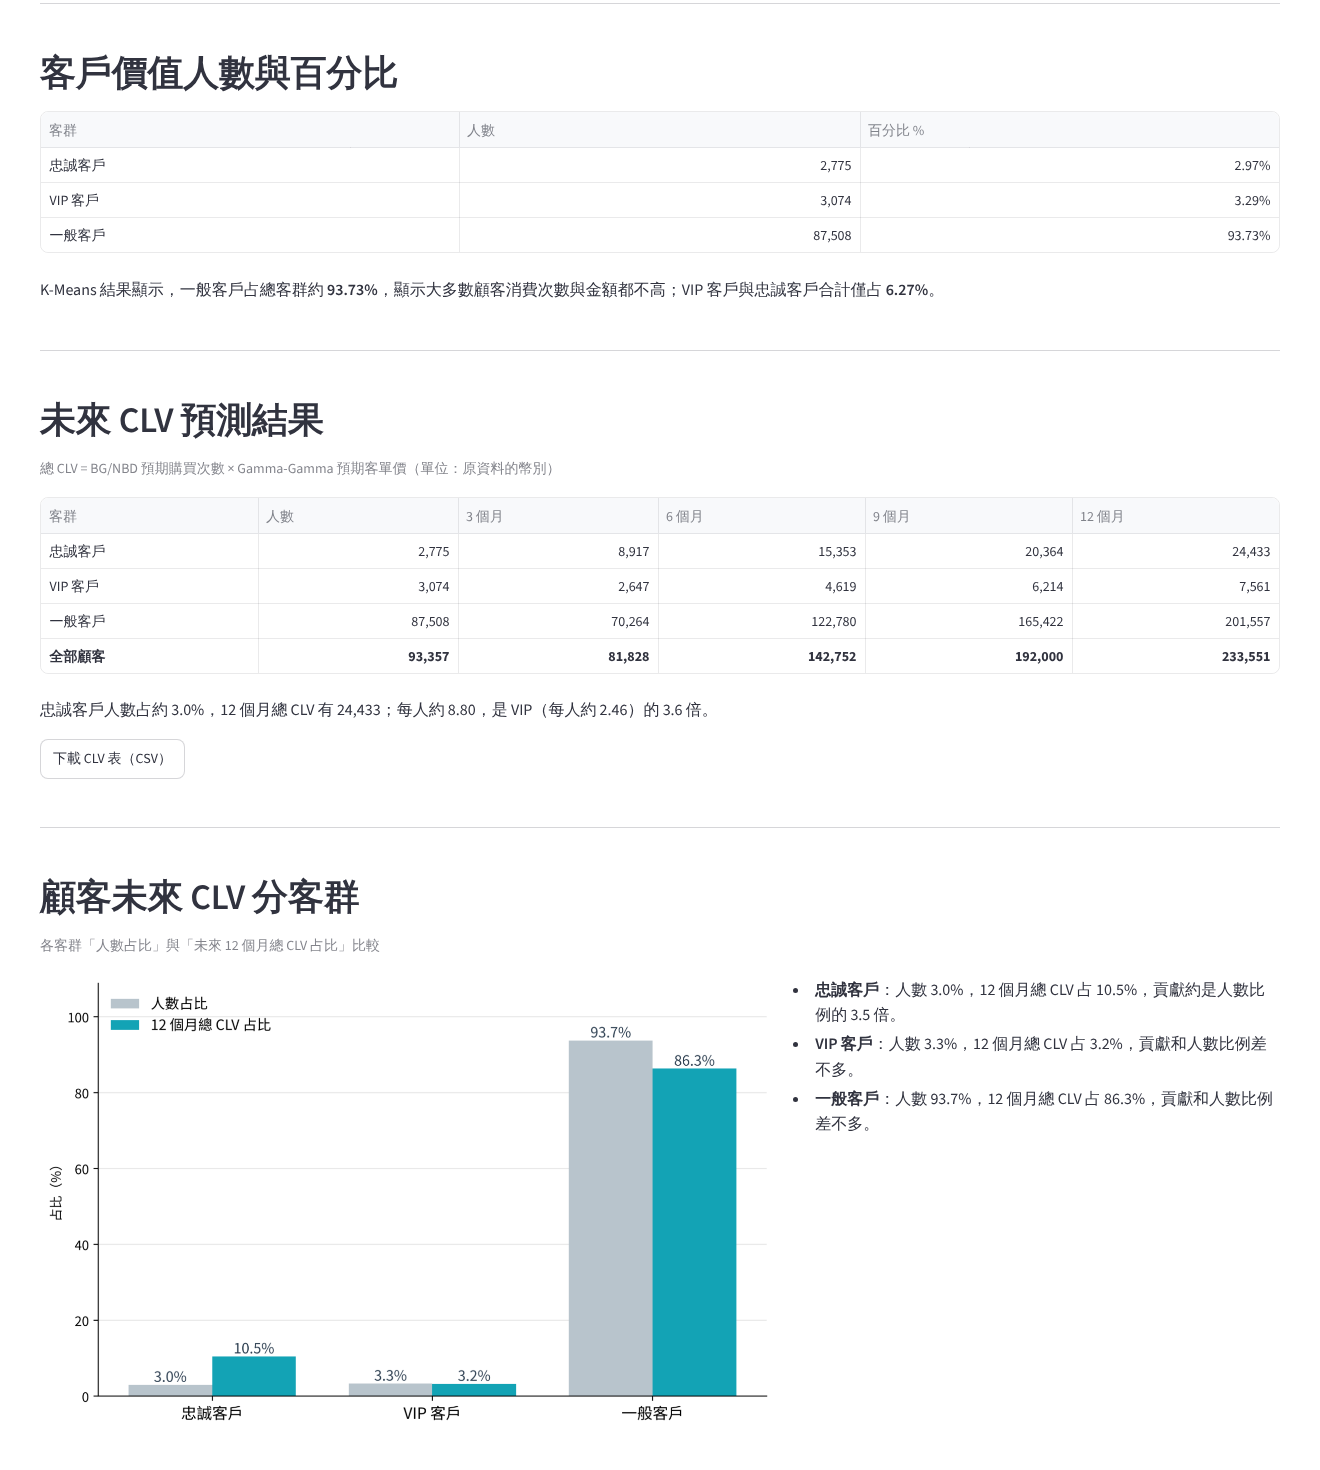
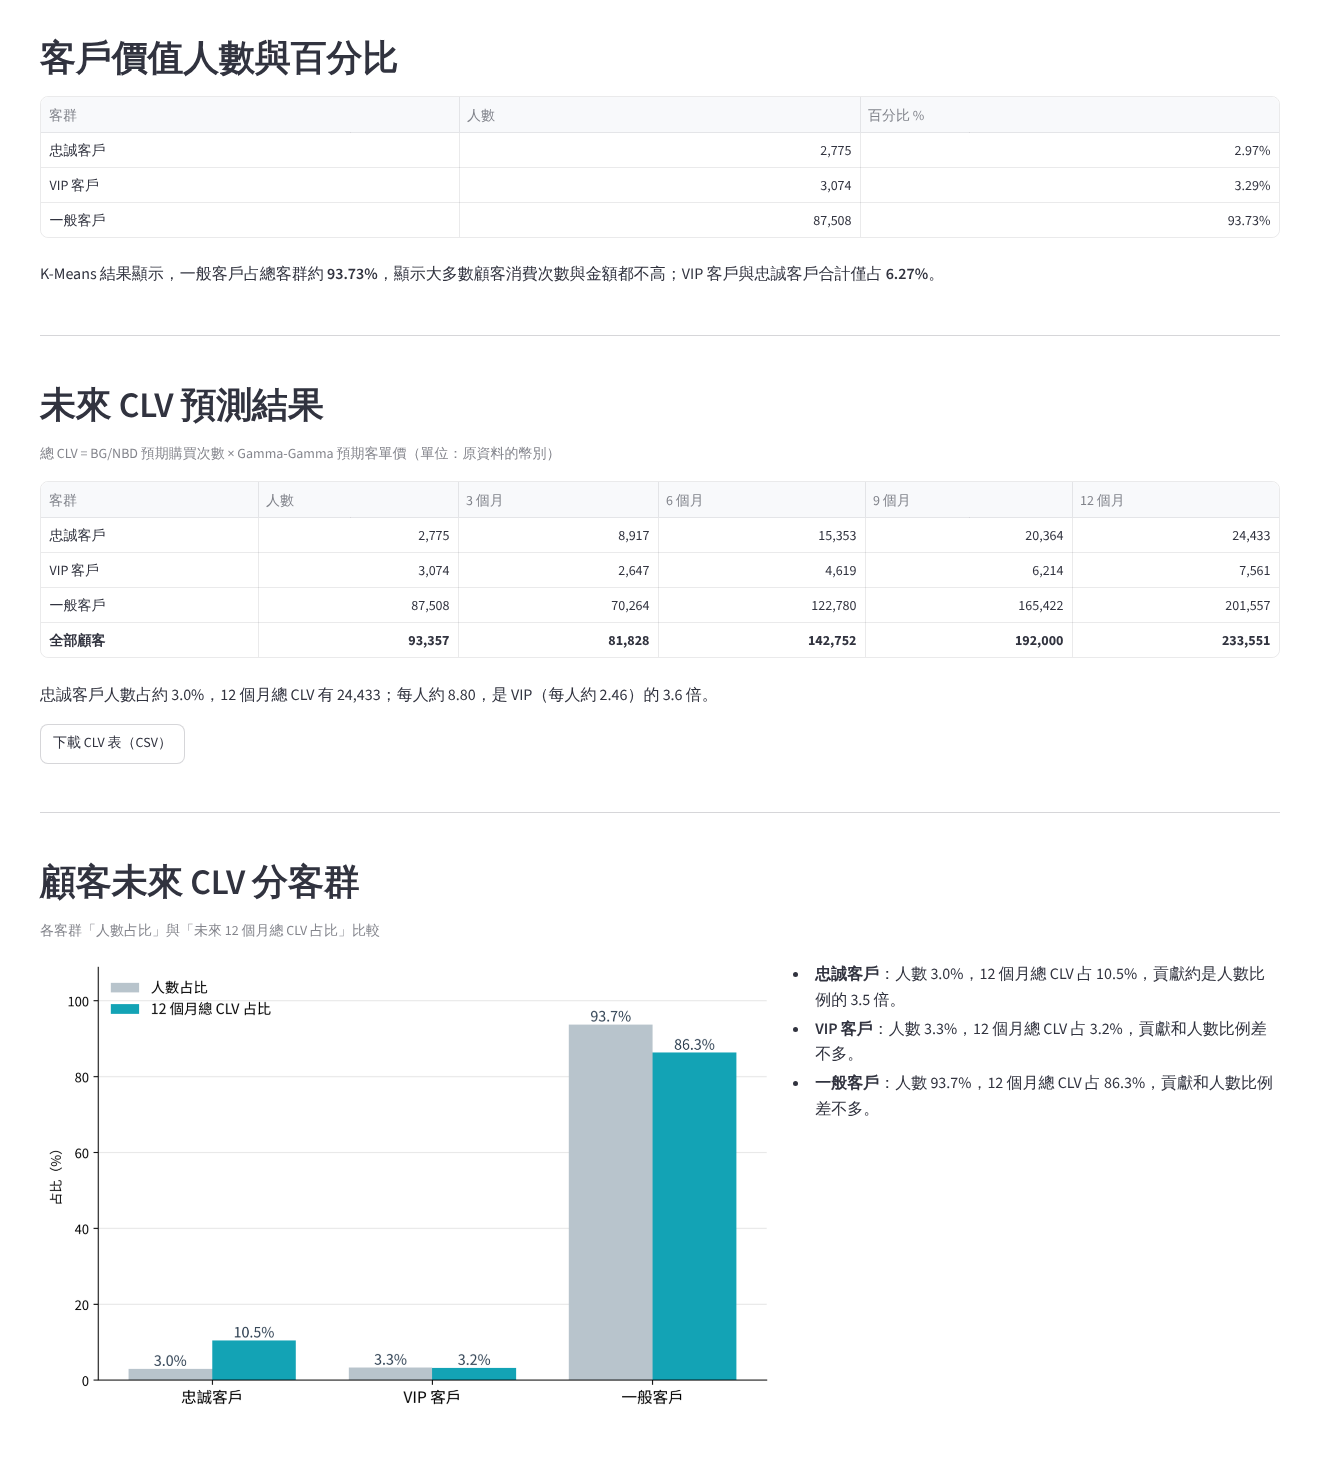
分群改用 F、M 散佈圖呈現，PCA 改成三群分開；更新系統截圖
Claude-Session: https://claude.ai/code/session_01CGySaF61w1nVm1sgq7tDqG

diff --git a/method_cluster.html b/method_cluster.html
@@ -138,24 +138,22 @@ footer{background:var(--navy);color:#c9d3db;text-align:center;font-size:.9rem;li
   </div>
 </div>
 <div class="card">
+  <h2>分群結果</h2>
+  <figure><img src="img/clusters.png" alt="K-Means 分群結果：橫軸購買次數、縱軸總消費金額，三群完全分開"><figcaption>每個點是一位顧客，畫在分群實際使用的購買次數（F）與總消費金額（M）上。</figcaption></figure>
+  <p style="margin-top:14px">分群只用 F 與 M，所以畫在這兩個指標上，三群可以完全分開：</p>
+  <div class="tbl-wrap"><table><thead><tr><th>客群</th><th>人數</th><th>實際範圍</th></tr></thead>
+    <tbody>
+      <tr><th><span class="dot" style="background:#2f5fd0"></span>忠誠客戶</th><td class="num">2,775</td><td style="text-align:left;white-space:normal">購買 2～15 次</td></tr>
+      <tr><th><span class="dot" style="background:#d6453d"></span>VIP 客戶</th><td class="num">3,074</td><td style="text-align:left;white-space:normal">多數只買 1 次，總消費 588～13,664 巴西幣（另有 26 人買過 2 次但金額很高）</td></tr>
+      <tr><th><span class="dot" style="background:#9aa3ad"></span>一般客戶</th><td class="num">87,508</td><td style="text-align:left;white-space:normal">只買 1 次，總消費 588 巴西幣以下</td></tr>
+    </tbody></table></div>
+  <p>一般客戶與 VIP 客戶的分界約為 <span class="hl">588 巴西幣</span>（圖中虛線）。這條線是 K-Means 依資料自己找出來的，不是事先設定。</p>
+</div>
+<div class="card">
   <h2>PCA（主成分分析）特徵對比</h2>
-  <div class="grid-2">
-    <figure><img src="img/pca.png" alt="PCA 散佈圖：三個客群沿 PC1 排開"><figcaption>PC1 主要反映 F、M；PC2 主要反映 R。</figcaption></figure>
-    <div>
-      <p>圖中每個點代表一位顧客，不同顏色代表不同客群。透過 PCA 將 RFM 三個特徵降到二維後，可以觀察各客群的分布情形。結果顯示，大部分顧客集中於左側區域，表示其消費行為較為相似；而少數顧客分布於右側與上方區域，顯示其消費特徵與一般顧客存在較大差異。</p>
-      <p>三群沿著 PC1（主要反映 F、M）由左到右排開，與分群只使用 F、M 的設計一致；同一群在 PC2（R）方向上分布很廣，代表同一群裡同時有最近才買與很久沒買的顧客。</p>
-    </div>
-  </div>
-  <div class="grid-2" style="margin-top:20px">
-    <figure><img src="img/pca_zoom.png" alt="PCA 散佈圖局部放大"><figcaption>左下密集區域放大（PC1：−2～12）。</figcaption></figure>
-    <div>
-      <ul class="chips" style="flex-direction:column;align-items:flex-start">
-        <li><span class="dot" style="background:#5b5bff"></span>藍色：忠誠客戶</li>
-        <li><span class="dot" style="background:#ff6b6b"></span>紅色：VIP 客戶</li>
-        <li><span class="dot" style="background:#9e9e9e"></span>灰色：一般客戶</li>
-      </ul>
-    </div>
-  </div>
+  <figure><img src="img/pca_facets.png" alt="PCA 分布，三個客群各一張，淺灰為全部顧客"><figcaption>三個客群分開呈現，淺灰色為全部顧客。PC1 主要反映 F、M；PC2 主要反映 R。</figcaption></figure>
+  <p style="margin-top:14px">透過 PCA 將 RFM 三個特徵降到二維後，可以觀察各客群的分布情形。結果顯示，大部分顧客集中於左側區域，表示其消費行為較為相似；而少數顧客分布於右側與上方區域，顯示其消費特徵與一般顧客存在較大差異。</p>
+  <p>三群沿著 PC1（主要反映 F、M）由左到右排開，與分群只使用 F、M 的設計一致；同一群在 PC2（R）方向上分布很廣，代表同一群裡同時有最近才買與很久沒買的顧客。</p>
 </div>
 <div class="pager"><a href="method_rfm.html">← RFM 與 K-Means</a><a href="method_clv.html">CLV 預測模型 →</a></div>
 </main><footer>© 2026 靜宜大學資料科學暨大數據分析與應用學系<br>CLV 顧客終身價值專題組｜資料來源：Kaggle Olist Brazilian E-commerce Dataset</footer><button id="top" type="button" aria-label="回到頁首">TOP</button>

diff --git a/method_rfm.html b/method_rfm.html
@@ -142,9 +142,9 @@ footer{background:var(--navy);color:#c9d3db;text-align:center;font-size:.9rem;li
   <h3>客群命名規則</h3>
   <div class="tbl-wrap"><table><thead><tr><th>順序</th><th>客群</th><th>判定依據</th></tr></thead>
     <tbody>
-      <tr><td>1</td><th><span class="dot" style="background:#5b5bff"></span>忠誠客戶</th><td>Frequency 平均最高的一群</td></tr>
-      <tr><td>2</td><th><span class="dot" style="background:#ff6b6b"></span>VIP 客戶</th><td>其餘兩群中 Monetary 平均較高的一群</td></tr>
-      <tr><td>3</td><th><span class="dot" style="background:#9e9e9e"></span>一般客戶</th><td>剩下的一群（Frequency、Monetary 皆低）</td></tr>
+      <tr><td>1</td><th><span class="dot" style="background:#2f5fd0"></span>忠誠客戶</th><td>Frequency 平均最高的一群</td></tr>
+      <tr><td>2</td><th><span class="dot" style="background:#d6453d"></span>VIP 客戶</th><td>其餘兩群中 Monetary 平均較高的一群</td></tr>
+      <tr><td>3</td><th><span class="dot" style="background:#9aa3ad"></span>一般客戶</th><td>剩下的一群（Frequency、Monetary 皆低）</td></tr>
     </tbody></table></div>
 </div>
 <div class="pager"><a href="data_process.html">← 資料前處理</a><a href="method_cluster.html">肘部法則與 PCA →</a></div>

diff --git a/demo.html b/demo.html
@@ -144,7 +144,7 @@ footer{background:var(--navy);color:#c9d3db;text-align:center;font-size:.9rem;li
   <ol class="steps">
     <li><div><b>上傳資料並設定欄位</b><br>上傳 CSV 或 XLSX 檔，確認系統推薦的顧客 ID、訂單 ID、日期與金額欄位。</div></li>
     <li><div><b>資料品質檢查</b><br>系統依序檢查欄位缺失、訂單狀態、多筆付款與退貨，再確認資料量是否足夠。</div></li>
-    <li><div><b>分群結果</b><br>顯示肘部法則、PCA 與各客群人數。</div></li>
+    <li><div><b>分群結果</b><br>顯示肘部法則、分群散佈圖、PCA 與各客群人數。</div></li>
     <li><div><b>未來 CLV</b><br>顯示 3／6／9／12 個月的 CLV 表與各客群占比，可下載 CSV。</div></li>
   </ol>
 </div>

diff --git a/src/build_site.py b/src/build_site.py
@@ -367,9 +367,9 @@ PAGES["method_rfm.html"] = ("RFM 與 K-Means", f"""
   <h3>客群命名規則</h3>
   <div class="tbl-wrap"><table><thead><tr><th>順序</th><th>客群</th><th>判定依據</th></tr></thead>
     <tbody>
-      <tr><td>1</td><th><span class="dot" style="background:#5b5bff"></span>忠誠客戶</th><td>Frequency 平均最高的一群</td></tr>
-      <tr><td>2</td><th><span class="dot" style="background:#ff6b6b"></span>VIP 客戶</th><td>其餘兩群中 Monetary 平均較高的一群</td></tr>
-      <tr><td>3</td><th><span class="dot" style="background:#9e9e9e"></span>一般客戶</th><td>剩下的一群（Frequency、Monetary 皆低）</td></tr>
+      <tr><td>1</td><th><span class="dot" style="background:#2f5fd0"></span>忠誠客戶</th><td>Frequency 平均最高的一群</td></tr>
+      <tr><td>2</td><th><span class="dot" style="background:#d6453d"></span>VIP 客戶</th><td>其餘兩群中 Monetary 平均較高的一群</td></tr>
+      <tr><td>3</td><th><span class="dot" style="background:#9aa3ad"></span>一般客戶</th><td>剩下的一群（Frequency、Monetary 皆低）</td></tr>
     </tbody></table></div>
 </div>
 {pager(("資料前處理", "data_process.html"), ("肘部法則與 PCA", "method_cluster.html"))}
@@ -391,24 +391,22 @@ PAGES["method_cluster.html"] = ("肘部法則與 PCA", f"""
   </div>
 </div>
 <div class="card">
+  <h2>分群結果</h2>
+  <figure><img src="img/clusters.png" alt="K-Means 分群結果：橫軸購買次數、縱軸總消費金額，三群完全分開"><figcaption>每個點是一位顧客，畫在分群實際使用的購買次數（F）與總消費金額（M）上。</figcaption></figure>
+  <p style="margin-top:14px">分群只用 F 與 M，所以畫在這兩個指標上，三群可以完全分開：</p>
+  <div class="tbl-wrap"><table><thead><tr><th>客群</th><th>人數</th><th>實際範圍</th></tr></thead>
+    <tbody>
+      <tr><th><span class="dot" style="background:#2f5fd0"></span>忠誠客戶</th><td class="num">2,775</td><td style="text-align:left;white-space:normal">購買 2～15 次</td></tr>
+      <tr><th><span class="dot" style="background:#d6453d"></span>VIP 客戶</th><td class="num">3,074</td><td style="text-align:left;white-space:normal">多數只買 1 次，總消費 588～13,664 巴西幣（另有 26 人買過 2 次但金額很高）</td></tr>
+      <tr><th><span class="dot" style="background:#9aa3ad"></span>一般客戶</th><td class="num">87,508</td><td style="text-align:left;white-space:normal">只買 1 次，總消費 588 巴西幣以下</td></tr>
+    </tbody></table></div>
+  <p>一般客戶與 VIP 客戶的分界約為 <span class="hl">588 巴西幣</span>（圖中虛線）。這條線是 K-Means 依資料自己找出來的，不是事先設定。</p>
+</div>
+<div class="card">
   <h2>PCA（主成分分析）特徵對比</h2>
-  <div class="grid-2">
-    <figure><img src="img/pca.png" alt="PCA 散佈圖：三個客群沿 PC1 排開"><figcaption>PC1 主要反映 F、M；PC2 主要反映 R。</figcaption></figure>
-    <div>
-      <p>圖中每個點代表一位顧客，不同顏色代表不同客群。透過 PCA 將 RFM 三個特徵降到二維後，可以觀察各客群的分布情形。結果顯示，大部分顧客集中於左側區域，表示其消費行為較為相似；而少數顧客分布於右側與上方區域，顯示其消費特徵與一般顧客存在較大差異。</p>
-      <p>三群沿著 PC1（主要反映 F、M）由左到右排開，與分群只使用 F、M 的設計一致；同一群在 PC2（R）方向上分布很廣，代表同一群裡同時有最近才買與很久沒買的顧客。</p>
-    </div>
-  </div>
-  <div class="grid-2" style="margin-top:20px">
-    <figure><img src="img/pca_zoom.png" alt="PCA 散佈圖局部放大"><figcaption>左下密集區域放大（PC1：−2～12）。</figcaption></figure>
-    <div>
-      <ul class="chips" style="flex-direction:column;align-items:flex-start">
-        <li><span class="dot" style="background:#5b5bff"></span>藍色：忠誠客戶</li>
-        <li><span class="dot" style="background:#ff6b6b"></span>紅色：VIP 客戶</li>
-        <li><span class="dot" style="background:#9e9e9e"></span>灰色：一般客戶</li>
-      </ul>
-    </div>
-  </div>
+  <figure><img src="img/pca_facets.png" alt="PCA 分布，三個客群各一張，淺灰為全部顧客"><figcaption>三個客群分開呈現，淺灰色為全部顧客。PC1 主要反映 F、M；PC2 主要反映 R。</figcaption></figure>
+  <p style="margin-top:14px">透過 PCA 將 RFM 三個特徵降到二維後，可以觀察各客群的分布情形。結果顯示，大部分顧客集中於左側區域，表示其消費行為較為相似；而少數顧客分布於右側與上方區域，顯示其消費特徵與一般顧客存在較大差異。</p>
+  <p>三群沿著 PC1（主要反映 F、M）由左到右排開，與分群只使用 F、M 的設計一致；同一群在 PC2（R）方向上分布很廣，代表同一群裡同時有最近才買與很久沒買的顧客。</p>
 </div>
 {pager(("RFM 與 K-Means", "method_rfm.html"), ("CLV 預測模型", "method_clv.html"))}
 """)
@@ -522,7 +520,7 @@ PAGES["demo.html"] = ("成果展示", f"""
   <ol class="steps">
     <li><div><b>上傳資料並設定欄位</b><br>上傳 CSV 或 XLSX 檔，確認系統推薦的顧客 ID、訂單 ID、日期與金額欄位。</div></li>
     <li><div><b>資料品質檢查</b><br>系統依序檢查欄位缺失、訂單狀態、多筆付款與退貨，再確認資料量是否足夠。</div></li>
-    <li><div><b>分群結果</b><br>顯示肘部法則、PCA 與各客群人數。</div></li>
+    <li><div><b>分群結果</b><br>顯示肘部法則、分群散佈圖、PCA 與各客群人數。</div></li>
     <li><div><b>未來 CLV</b><br>顯示 3／6／9／12 個月的 CLV 表與各客群占比，可下載 CSV。</div></li>
   </ol>
 </div>
